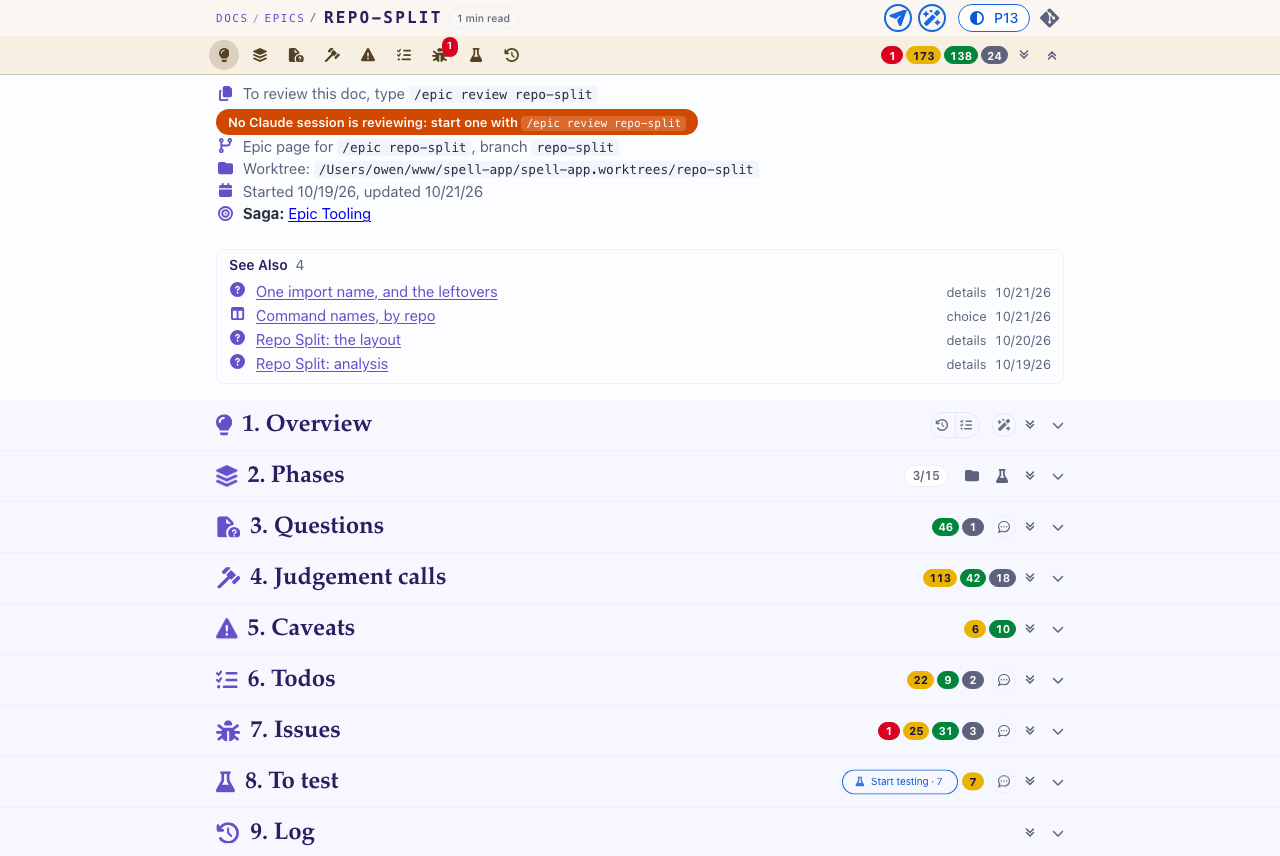
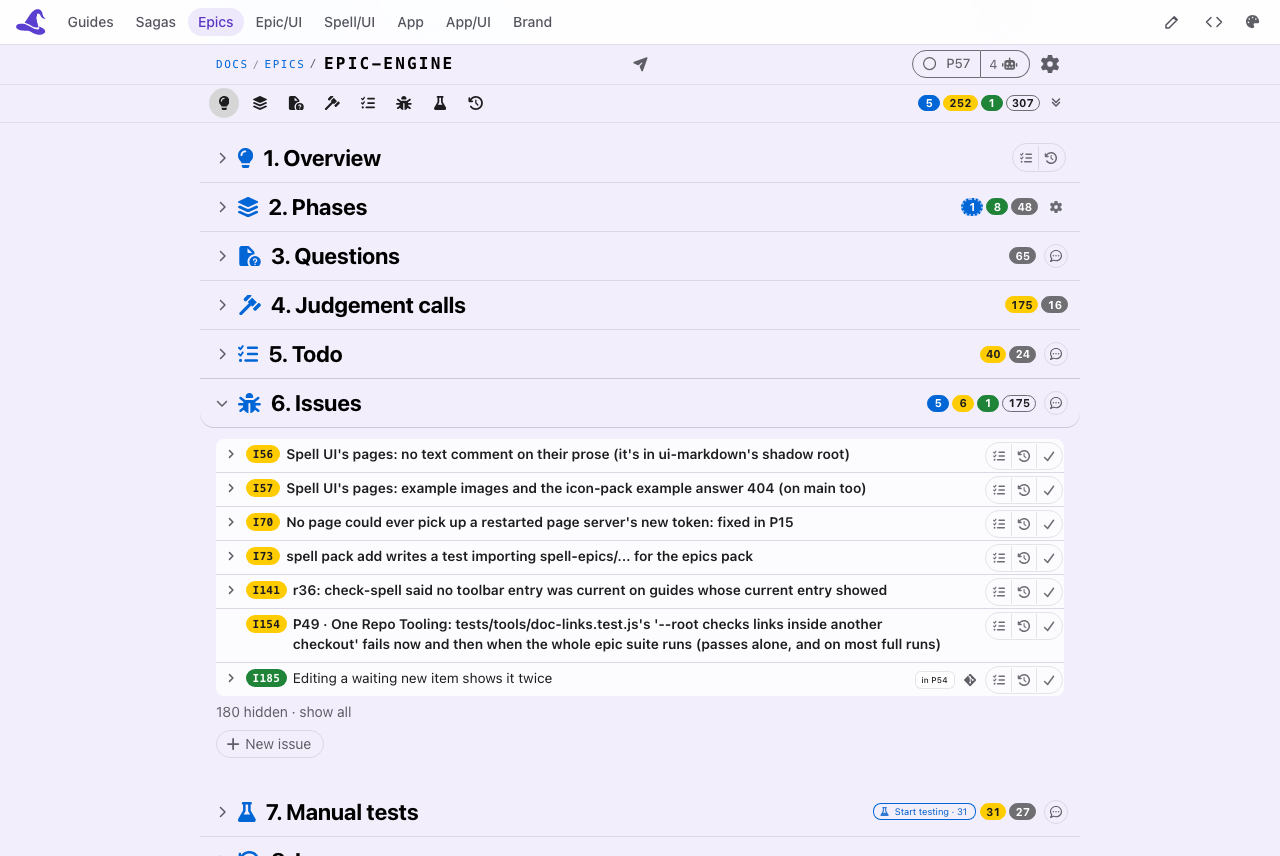
epic-engine I177:  README-pages.md's epic page picture taken again as the page looks today
- docs/images/epic-page.png:  epic-engine's page at 1280 x 856, light:  the header (Send, the step pill
  with its agents, the gear), the toolbar's counts, the eight sections, Issues open on its coloured items;
  no wand, no git toggle
- its alt text, caption and the counts paragraph rewritten to match;  the header list's stale lines too
  (no reading-time chip, the agents in the header's pill, one fold-all toggle, no + in the toolbar)
- src/demo/shoot-epic-page.mjs takes it again:  a copy of an epic page on a DemoServer, headless

Changed region(s): [[0.0, 0.0, 1.0, 1.0], [0.7188, 0.2126, 0.8438, 0.5771]]

diff --git a/epic/README-pages.md b/epic/README-pages.md
@@ -1,17 +1,17 @@
 # The pages you review on
 
-![The top of an epic page, every section folded.  The header:  REPO-SPLIT, "1 min read", the paper plane and the wand
-in blue, the step pill P13, the git toggle.  The toolbar:  nine section icons, the Issues icon with a red 1;  at its
-right, counts of 1 red, 173 yellow, 138 green and 24 grey.  The meta lines, with an orange "No Claude session is
-reviewing" pill;  a See Also box of four details and choice pages;  then the nine sections, Overview to Log, each with
-its counts, To test with a "Start testing · 7" button.](docs/images/epic-page.png)
+![An epic page, scrolled down to its sections.  The header:  EPIC-ENGINE, the paper plane (Send) in the middle, then
+at the right the step pill P57 with 4 agents running, and the gear.  The toolbar:  eight section icons;  at its right,
+counts of 5 blue, 252 yellow, 1 green and 307 grey.  Then the eight sections, Overview to Log, each with its counts;
+Issues is open, filtered to its coloured items:  six yellow open issues and one green one just
+done.](docs/images/epic-page.png)
 
-_A real epic page, mid-build:  the repo-split epic, two of its 15 phases under way, every section folded._
+_A real epic page, mid-build:  this repo's epic-engine epic at P57, its Issues section open and showing only what
+isn't settled._
 
-Count the chips at the toolbar's right:  336 items, 173 yellow, 138 green, 24 grey, and ONE red,
-the 1 on the Issues icon.
-Red means a person is needed.
-So the whole review, the evening this was taken, came down to one issue.
+Count the chips at the toolbar's right:  565 items, 5 blue, 252 yellow, 1 green, 307 grey, and no red.
+Red means a person is needed, so nothing here is waiting on you:
+blue is what Claude is working on right now, yellow is open, and you get to it when you have time.
 
 If you've run a project from an issue tracker and a pull-request thread, you know where the time goes:
 grooming the list, and scrolling the conversation for whatever is still open.
@@ -61,13 +61,15 @@ where the build stands and where you're needed are one glance up.
    - In the header's middle:  Send (the paper plane), while the page is being reviewed.
      A press sends at once;  left alone, a ring round it drains, and it sends by itself (2 minutes by default).
      Beside it, a spinner while Claude is at work.
-   - The epic's name, at the left, copies `/epic resume <name>` when you click it;
-     the chip after it says how long what's open takes to read.
+   - The epic's name, at the left, copies `/epic resume <name>` when you click it.
+   - While agents the epic started are running, the step pill counts them (`4` and a robot):
+     click it for their rows, each with a box that redirects it.
 2. **The toolbar says where you're needed.**
    An icon per section jumps there;  a red badge on it counts what needs you,
    an orange one the answers waiting on your pick.
    - At its right, a chip per item state with its count:  click one to show only those.
-   - Then unfold-all, fold-all, and `+` for a new todo or question.
+   - Then one button that unfolds every section, or folds them all again.
+   - No new item button here:  each item section has its own (New todo, New issue ...).
 3. **The meta lines say how to start, and where the work lives:**
    the review command (`/epic review <name>`), the branch and worktree, the dates, the saga,
    and once Doc Review has written it, the epic's guide.
@@ -76,8 +78,6 @@ where the build stands and where you're needed are one glance up.
    links), gathered by the page server each time it serves the page, never written by hand.
 5. **The eight sections** follow, folded, each with its counts.
 
-While an agent the epic started is still running, an "Agents running" panel sits above the sections,
-with a box for each agent that redirects it.
 While the plan is still being written, a folded "Plan hung?" notice says how to restart it.
 
 ## Eight sections, and their ids never change
